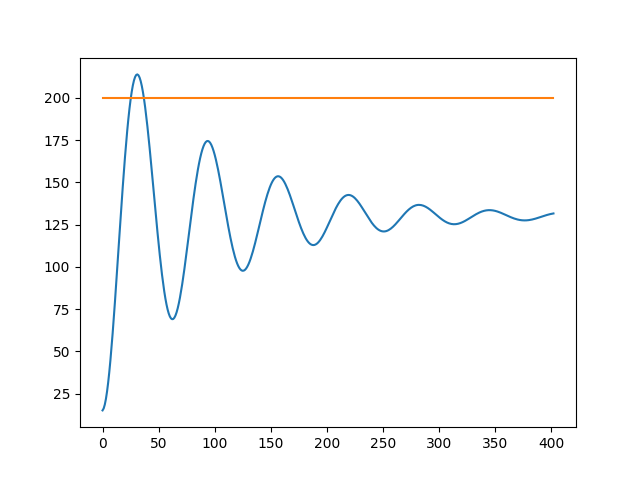
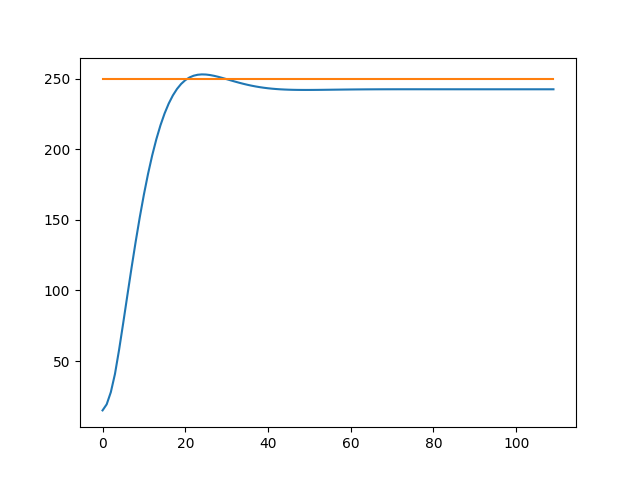
added limiting to steering

diff --git a/sketch.py b/sketch.py
@@ -13,15 +13,15 @@ fps = 60
 fpsClock = pygame.time.Clock()
 
 screen = None
-scr_width = 600
-scr_height = 400
+scr_width = 800
+scr_height = 500
 
 d = None
 
 # comments below are values u can try out
-kp = 0.5 #0.07 : 5
-ki = 0  #0.6 : 1.01
-kd = 0    #8 : 60
+kp = 0.995          #       0.07   | 5
+ki =  0.79         #       0.6    | 1.01
+kd =  35        #       8      | 60
 
 
 ################################################
@@ -36,6 +36,7 @@ class Drone:
                 self.integral = vector2D(0,0) 
                 self.prev_error = vector2D(0,0)
                 self.dt = 50
+                self.maxforce = 5
         def update(self):
                 #self.acc.mult(self.dt)
                 self.vel.add(self.acc)
@@ -87,6 +88,7 @@ class Drone:
                 steering = vector2D(0,0)
                 steering.subtract(u_t,self.vel)
                 steering.div(self.dt)
+                steering.limit(self.maxforce)
                 self.acc.add(steering)
                 
                 
@@ -110,8 +112,7 @@ def draw():
         screen.fill((51,51,51))
         d.add_g()
         d.pid_controller(vector2D(scr_width/2,setp),kp,ki,kd)
-        #print(f"{d.pos.x} : {d.pos.y}")
-        
+                
         #for ploting graph 
         y_pos.append(scr_height - d.pos.y)
         
@@ -140,7 +141,7 @@ while running:
         fpsClock.tick(fps)
 t1_pos = []
 for i in range(t):
-        t1_pos.append(200)
+        t1_pos.append(250)
          
 plt.plot(t_pos,y_pos)
 
